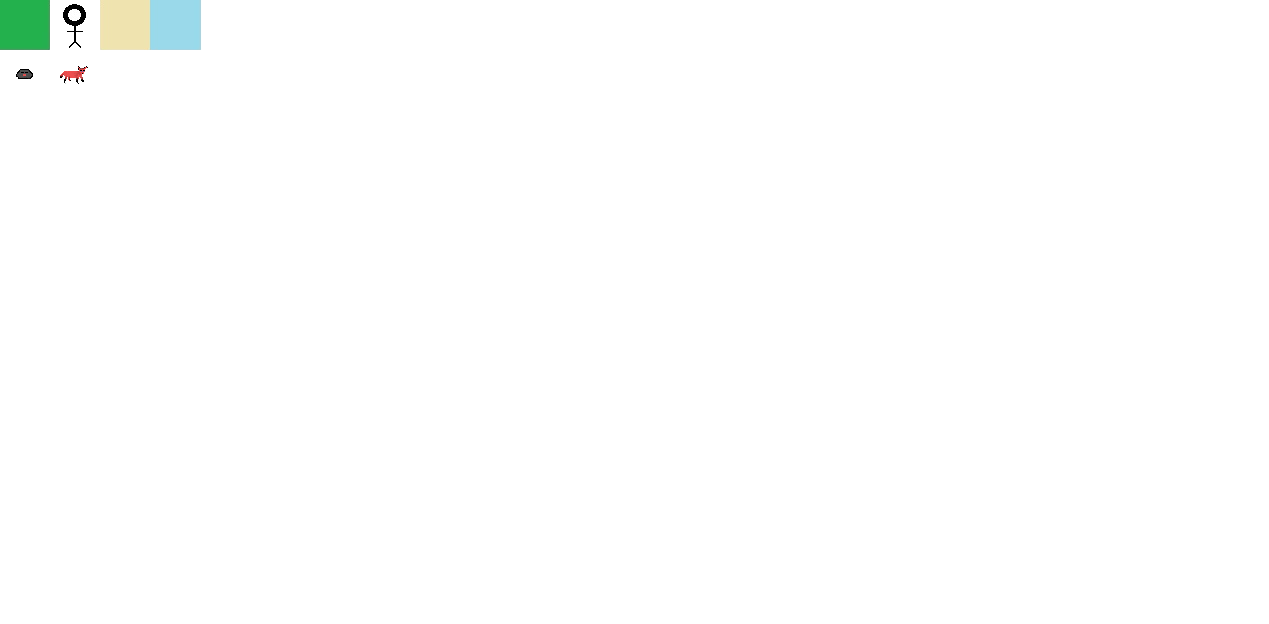
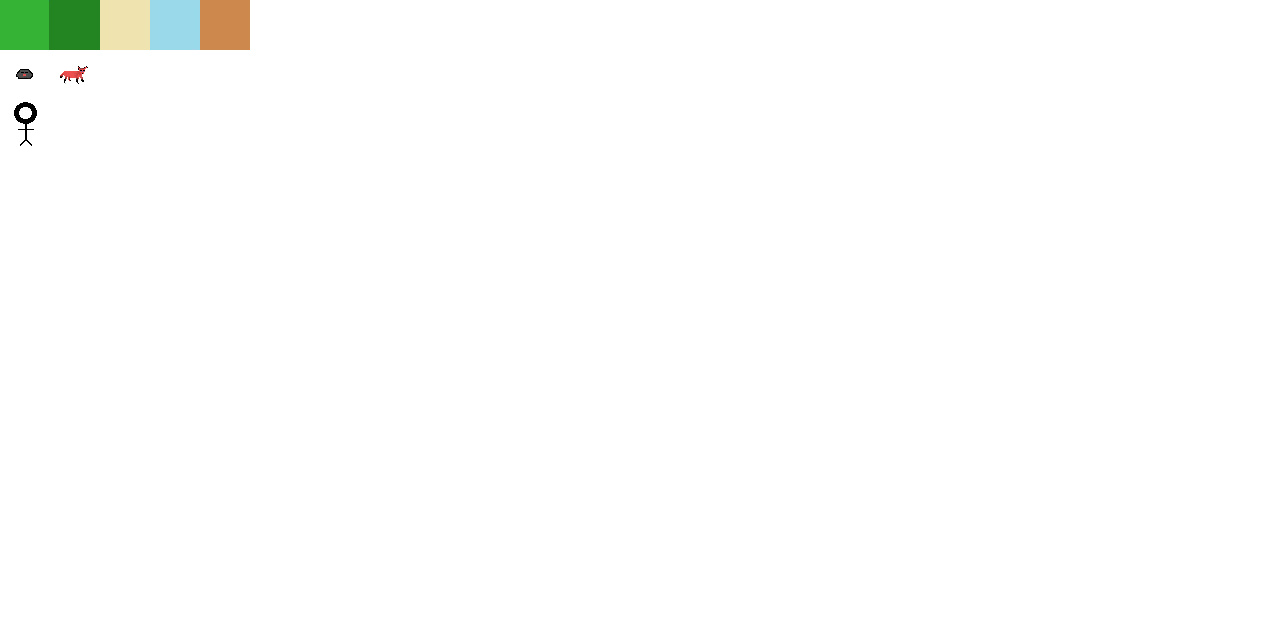
Some Improvements
-Synced drawing of adjacent and diagonal SuperTile creatures with the
current SuperTile
-Made random field generation against a backdrop
-compareCreature() method now is performed for all supertiles in the
main loop

Changed region(s): [[0.0, 0.0, 0.0922, 0.0913], [0.1537, 0.0, 0.2151, 0.0913], [0.0, 0.1522, 0.0307, 0.2131]]

diff --git a/Game2D/src/GameMain.java b/Game2D/src/GameMain.java
@@ -48,8 +48,8 @@ public class GameMain extends JFrame implements KeyListener, MouseListener{
 	int iDrawST=-1;											//Integer Draw Buffer SuperTile Position in "map"
 	int iBuffer=-1; 										//General Integer Buffer
 	int iBuffer2=-1;										//Secondary General Integer Buffer
-	SuperTile stBuffer = new SuperTile(iSuperTileCount);	 //General SuperTile Buffer
-	SuperTile stBufferComp = new SuperTile(iSuperTileCount);	//General SuperTile Comparison Buffer
+	SuperTile stBuffer = new SuperTile();	 //General SuperTile Buffer
+	SuperTile stBufferComp = new SuperTile();	//General SuperTile Comparison Buffer
 	int iPatchX=-1;											//Patch X Test
 	int iPatchY=-1;											//Patch Y Test
 	int iPatchProgressBuffer=0;								//Buffers Patch Progress
@@ -188,15 +188,25 @@ public class GameMain extends JFrame implements KeyListener, MouseListener{
 		}
 		
 		doEvent();
-		map.get(iCurrentSuperTile).compareCreatures();
+		for(int a=0; a<map.size();a++)
+		{
+			map.get(a).compareCreatures();
+		}
+		
 		drawCharacters(g);
 		g.clearRect(1000, 0, 300, 750);
+		
 		sBuffer=(hero.getTileX()+" , "+hero.getTileY()+" Frame: "+FrameX+" , "+FrameY);
 		g.drawString(sBuffer, iFramePixelsX,50);
 		sBuffer=(hero.getX()+ " , "+hero.getY()+" ("+hero.getiXinSuperTile()+" , "+hero.getiYinSuperTile()+")");
 		g.drawString(sBuffer, iFramePixelsX, 100);
 		sBuffer=""+iCurrentSuperTile+"";
 		g.drawString(sBuffer, iFramePixelsX,150);
+		
+		
+		//	g.setFont(new Font("New Courier",Font.BOLD,10));
+		//	map.get(iCurrentSuperTile).getCreature(0).trackCreature(g);
+		
 		
 		//bhButtons.drawButtons(g);
 		
@@ -214,28 +224,97 @@ public class GameMain extends JFrame implements KeyListener, MouseListener{
 		map.get(iCurrentSuperTile).drawCreatures(g, tile, FrameX, FrameY, iFrameXSize, iFrameYSize, xEdgeAdjust, yEdgeAdjust);
 		drawsideCharacters(g);
 		
-		g.drawImage(tile, hero.getX(),hero.getY(),hero.getX()+50,hero.getY()+50,50,0,100,50, null);
+		g.drawImage(tile, hero.getX(),hero.getY(),hero.getX()+50,hero.getY()+50,0,100,50,150, null);
 	}
 	
 	//Below is a work in progress
 	public void drawsideCharacters(Graphics g)
 	{
+		//Side by Side and Corners all are drawn
+		
 		if(FrameX<10)
 		{
 			iBuffer=map.get(iCurrentSuperTile).getiLeft();
+			//System.out.println(iBuffer);
 			
-			if(iBuffer>0)
+			if(iBuffer>-1)
 			{
 				map.get(iBuffer).drawCreatures(g, tile, FrameX+100, FrameY, iFrameXSize, iFrameYSize, xEdgeAdjust, yEdgeAdjust);
+				
+				if(FrameY<10)
+				{
+					iBuffer=map.get(iBuffer).getiTop();
+					//System.out.println(iBuffer);
+					
+					if(iBuffer>-1)
+					{
+						map.get(iBuffer).drawCreatures(g, tile, FrameX+100, FrameY+100, iFrameXSize, iFrameYSize, xEdgeAdjust, yEdgeAdjust);
+					}
+				}
+				if(FrameY>89)
+				{
+					iBuffer=map.get(iBuffer).getiBottom();
+					//System.out.println(iBuffer);
+					
+					if(iBuffer>-1)
+					{
+						map.get(iBuffer).drawCreatures(g, tile, FrameX+100, FrameY-100, iFrameXSize, iFrameYSize, xEdgeAdjust, yEdgeAdjust);
+					}
+				}
+				
 			}
 		}
 		if(FrameX>89)
 		{
 			iBuffer=map.get(iCurrentSuperTile).getiRight();
+			//System.out.println(iBuffer);
 			
-			if(iBuffer>0)
+			if(iBuffer>-1)
 			{
 				map.get(iBuffer).drawCreatures(g, tile, FrameX-100, FrameY, iFrameXSize, iFrameYSize, xEdgeAdjust, yEdgeAdjust);
+				
+				if(FrameY<10)
+				{
+					iBuffer=map.get(iBuffer).getiTop();
+					//System.out.println(iBuffer);
+					
+					if(iBuffer>-1)
+					{
+						map.get(iBuffer).drawCreatures(g, tile, FrameX-100, FrameY+100, iFrameXSize, iFrameYSize, xEdgeAdjust, yEdgeAdjust);
+					}
+				}
+				if(FrameY>89)
+				{
+					iBuffer=map.get(iBuffer).getiBottom();
+					//System.out.println(iBuffer);
+					
+					if(iBuffer>-1)
+					{
+						map.get(iBuffer).drawCreatures(g, tile, FrameX-100, FrameY-100, iFrameXSize, iFrameYSize, xEdgeAdjust, yEdgeAdjust);
+					}
+				}
+			}
+		}
+		
+				
+		if(FrameY<10)
+		{
+			iBuffer=map.get(iCurrentSuperTile).getiTop();
+			//System.out.println(iBuffer);
+			
+			if(iBuffer>-1)
+			{
+				map.get(iBuffer).drawCreatures(g, tile, FrameX, FrameY+100, iFrameXSize, iFrameYSize, xEdgeAdjust, yEdgeAdjust);
+			}
+		}
+		if(FrameY>89)
+		{
+			iBuffer=map.get(iCurrentSuperTile).getiBottom();
+			//System.out.println(iBuffer);
+			
+			if(iBuffer>-1)
+			{
+				map.get(iBuffer).drawCreatures(g, tile, FrameX, FrameY-100, iFrameXSize, iFrameYSize, xEdgeAdjust, yEdgeAdjust);
 			}
 		}
 		

diff --git a/Game2D/src/SuperTile.java b/Game2D/src/SuperTile.java
@@ -7,9 +7,14 @@ import java.util.Random;
 public class SuperTile {
 
 	Tile[][] sTile= new Tile[100][100];
+	int[] iArray = new int[20];
 	ArrayList<TileObject> sList= new ArrayList<TileObject>();
 	ArrayList<Creature> cList= new ArrayList<Creature>();
-	
+	int iMax=0;
+	int iZones=0;
+	int iTypeBase=-1;
+	int iCount=1;
+	int iMod=-1;
 	int iIdentity=0;
 	int iLeft=-1;
 	int iRight=-1;
@@ -34,9 +39,12 @@ public class SuperTile {
 	int iY=0;
 	Random rand = new Random();
 	int iBuffer=-1;
+	int iBuffer2=-1;
 	boolean bBuffer=false;
 	ArrayList<Creature> creaturelistBuffer= new ArrayList<Creature>();
+	boolean bGen = false;
 	Creature cBuffer= new Creature(0,0,0,0);
+	
 	
 	public ArrayList<Creature> creaturesCorrect()
 	{
@@ -203,8 +211,20 @@ public class SuperTile {
 	public void setiBottom(int iBottom) {
 		this.iBottom = iBottom;
 	}
+	
+	public Creature getCreature(int a)
+	{
+		return cList.get(a);
+	}
+	
+	public SuperTile()
+	{
+		
+	}
+	
 	public SuperTile(int i)
 	{
+		System.out.println("SuperTile has been made with identity: "+i);
 		iIdentity=i;
 		for(int a=0;a<100;a++)
 		{
@@ -214,15 +234,14 @@ public class SuperTile {
 			}
 		}
 		
-		for(int a=0;a<95;a+=5)
+		if(!bGen)
 		{
-			for(int b=0;b<95;b+=5)
-			{
-				sTile[a][b].setType(1);
-			}
+			genSuperTile();
+			bGen=true;
 		}
-		
-		sTile[50][50].setType(2);
+				
+		//sTile[50][50].setType(2);
+		//makeSuperTile();
 		
 	}
 	public void addTile(int x, int y, int t)
@@ -395,5 +414,89 @@ public class SuperTile {
 			}
 		}
 	}
-	
+
+	public void genSuperTile()
+	{
+		iZones=rand.nextInt(8)+1;
+		int[] iZoneArray= new int[iZones];
+		int iWidth=0;
+		int iHeight=0;
+		int iiX=0;
+		int iiY=0;
+		int iBG=rand.nextInt(3); //sets fill tile type
+		System.out.println("The background tileset is #"+iBG);
+		
+		for(int a=0;a<iZones;a++)
+		{
+			iZoneArray[a]=rand.nextInt(2); //0-> Field 1->Vein
+		}
+		
+		for(int e=0;e<100;e++)
+		{
+			for(int f=0;f<100;f++)
+			{
+				
+					sTile[e][f].setType(iBG);
+					//System.out.println("The background tileset is now #"+iBuffer2);
+			}
+		}
+		
+		for(int b=0;b<iZones;b++)
+		{
+			if(iZoneArray[b]==0)
+			{
+				
+				iBuffer=rand.nextInt(3);
+				iWidth=rand.nextInt(10)+10;
+				iHeight=rand.nextInt(10)+10;
+				iiX=rand.nextInt(100);
+				iiY=rand.nextInt(100);
+				
+				if((iiX+iWidth)>99)
+				{
+					iiX=99-iWidth;
+				}
+				if((iiY+iHeight)>99)
+				{
+					iiY=99-iHeight;
+				}
+				
+				if(iBuffer!=iBG)
+				{
+					for(int c=iiX;c<(iiX+iWidth);c++)
+					{
+						for(int d=iiY;d<(iiY+iHeight);d++)
+						{
+								sTile[c][d].setType(iBuffer);
+								
+						}
+					}
+				
+					System.out.println("A field has been drawn that is type "+iBuffer+ " Against a "+iBG+" background");
+					System.out.println("at " +iiX +" , "+ iiY + "and size: "+iWidth+" by "+iHeight);
+				}
+				
+				
+				
+			}
+		}
+		
+		/*for(int b=0;b<iZones;b++)
+		{
+			if(iZoneArray[b]==1)
+			{
+				iWidth=rand.nextInt(5)+5;
+				iHeight=rand.nextInt(5)+5;
+				iX=rand.nextInt(100-iWidth);
+				iY=rand.nextInt(100-iHeight);
+			}
+			
+		}*/
+		
+		
+		
+		
+		
+		
+	}
 }

diff --git a/Game2D/src/Tile.java b/Game2D/src/Tile.java
@@ -1,12 +1,15 @@
 
 public class Tile {
 
-	int type=0;
+	int type=-1;
 	int tileX=0;
 	int tileY=0;
-	final int GRASS=0;
-	final int DESERT=1;
-	final int ICE=2;
+	final int GRASS=1;
+	final int FOREST=0;
+	final int DESERT=3;
+	final int ICE=4;
+	final int DIRT=2;
+	
 	public Tile()
 	{
 		
@@ -22,13 +25,27 @@ public class Tile {
 		type=t;
 		switch(type)
 		{
-		case 1: //grass
+		case GRASS:
+		tileX=0;
+		break;
+		case FOREST: //grass
+		tileX=50;
+		break;
+		case DESERT: //desert
 		tileX=100;
 		break;
-		case 2: //desert
+		case ICE:
 		tileX=150;
 		break;
+		case DIRT:
+		tileX=200;
+		break;
 		}
+	}
+	
+	public int getType()
+	{
+		return type;
 	}
 	
 	public int getX()

diff --git a/Game2D/src/Creature.java b/Game2D/src/Creature.java
@@ -23,6 +23,7 @@ public class Creature extends TileObject{
 	int iMoveDir=-1;
 	int iBuffer=0;
 	int iBuffer2=0;
+	String sBuffer="";
 	int iMoveBehavior=-1; //0=meander 1=relaxed 10=hunting
 	int iNaturalMoveBehavior=-1;
 	int iPreyNumber=-1;
@@ -343,10 +344,11 @@ public class Creature extends TileObject{
 		
 	}
 
-	public void trackCreature(int a)
+	public void trackCreature(Graphics g)
 	{
+		sBuffer=("Creature is at position "+getXPosition()+" , "+getYPosition()+" and Tiles: "+iX+" , "+iY);
+		g.drawString(sBuffer, 1000 ,250);
 		
-		System.out.println("Creature: "+ a+ "is a position "+getXPosition()+" , "+getYPosition());
 	}
 	
 
